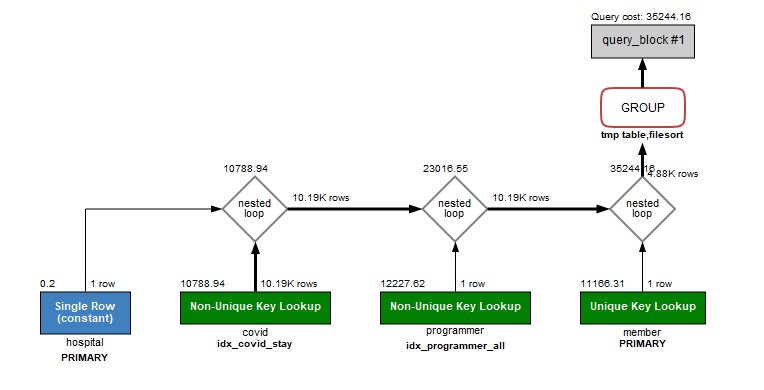
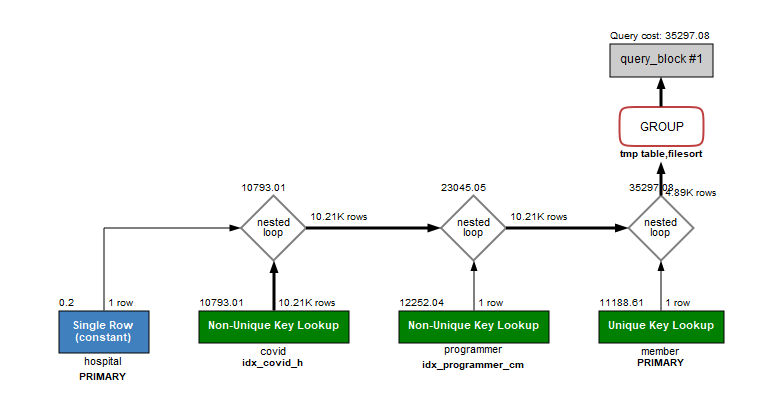
docs : [STEP2] 개선된 index를 적용한 최종 쿼리 적용

Changed region(s): [[0.0301, 0.0308, 0.9332, 0.9538], [0.4817, 0.7077, 0.7225, 0.9231]]

diff --git a/README.md b/README.md
@@ -88,7 +88,7 @@ ii) 해결 : pk 생성 및 pk 유니크로 변경, 인덱스 생성
 
 ALTER TABLE subway.programmer ADD CONSTRAINT programmer_pk PRIMARY KEY (id);
 ALTER TABLE subway.programmer ADD UNIQUE id_unique (id);
-CREATE INDEX idx_programmer_hoddy ON subway.programmer (hobby);
+CREATE INDEX idx_programmer_h ON subway.programmer (hobby);
 
 i) 개선 후 속도 0.031 sec
 
@@ -110,7 +110,7 @@ ALTER TABLE subway.covid ADD UNIQUE covid_id_unique (id);
 ALTER TABLE subway.hospital ADD CONSTRAINT hospital_pk PRIMARY KEY (id);
 ALTER TABLE subway.hospital ADD UNIQUE hospital_id_unique (id);
 
-CREATE INDEX idx_covid_all ON subway.covid(programmer_id, hospital_id);
+CREATE INDEX idx_covid_ph ON subway.covid(programmer_id, hospital_id);
 
 i) 개선 후 속도 : 0.016 sec
 
@@ -137,26 +137,11 @@ ii) 문제 : 큰 이슈 없음
 ### 문제 수정
 
 ```
-문제의도 다시 파악. programmer는 항상 hobby를 가지고 있어야 한다.
+문제의도 다시 파악. 
+1. programmer는 항상 hobby를 가지고 있어야 한다. 
+2. FROM 절 서브쿼리를 통한 모수 줄이기
+3. WHERE 절에 대한 hobby, student, years_coding 순서의 신규 인덱스 추가
 
-SELECT hospital.name
-FROM subway.programmer programmer
-JOIN subway.covid covid ON covid.programmer_id = programmer.id
-JOIN  subway.hospital hospital ON covid.hospital_id = hospital.id
-WHERE  hobby = 'Yes' AND ( student LIKE 'Yes%' OR  years_coding = '0-2 years')
-ORDER BY programmer.id;
-
-```
-### 개선 후 실행 계획
-
-![3이슈_개선.png](explain/3이슈_개선.png)
-
-![3이슈_개선_plain.png](explain/3이슈_개선_plain.png)
-
-### 다른 방식 적용 전후비교 
-
-```
-해설 쿼리처럼 FROM절 모수 줄였을 때 전후 비교.
 SELECT programmer.id, covid.name
 FROM (
     SELECT id
@@ -167,11 +152,14 @@ JOIN (
     JOIN (SELECT hospital.id, name FROM subway.hospital) AS hospital ON hospital.id = covid.hospital_id
 ) AS covid ON covid.programmer_id = programmer.id
 
+
+CREATE INDEX idx_programmer_hsy ON subway.programmer(hobby, student, years_coding);
+
+
 ```
-### FROM절 모수 줄였을 시 실행 계획2 
+### 개선 후 실행 계획
 
-![3이슈_개선2_plain.png](explain/3이슈_개선2_plain.png)
-
+![3이슈_개선.png](explain/3이슈_개선.png)
 
  - 4. 서울대병원에 다닌 20대 India 환자들을 병원에 머문 기간별로 집계하세요. (covid.Stay)
 
@@ -202,7 +190,9 @@ i) 속도 : 0.015 sec
 ### 문제 수정
 
 ```
-SQL 신규 작성 - FROM절 모수 줄이기
+1. idx_covid_all 과같은 재활용 불가능한 인덱스를 재활용하려는 시도 제거.( 네이밍 수정 )
+2. FROM 절 서브쿼리를 통한 모수 줄이기
+3. 개선을 위한 적절한 인덱스 추가 
 
 SELECT stay, COUNT(programmer.member_id)
 FROM ( SELECT id FROM subway.member WHERE age BETWEEN 20 AND 29) AS member
@@ -214,35 +204,37 @@ JOIN (
 ON member.id = covid.member_id
 GROUP BY stay;
 
-모든 조건절 index 추가 
+개선을 위한 인덱스 추가
 
 CREATE INDEX idx_member_age ON subway.member(age);
-CREATE INDEX idx_programmer_all ON subway.programmer(country,member_id);
-CREATE INDEX idx_covid_stay ON subway.covid(stay);
-CREATE INDEX idx_covid_hospital ON subway.covid(hospital_id);
+CREATE INDEX idx_programmer_cm ON subway.programmer(country,member_id);
+CREATE INDEX idx_covid_h ON subway.covid(hospital_id);
 
 ```
 ###  개선 후
 
 ![4이슈_개선.png](explain/4이슈_개선.png)
 
-![4이슈_개선_.plain.png](explain/4이슈_개선_.plain.png)
-
  - 5. 서울대병원에 다닌 30대 환자들을 운동 횟수별로 집계하세요. (user.Exercise)
 
 ```
-SELECT exercise, count(programmer.id)
-FROM subway.hospital hospital
-JOIN subway.covid covid ON covid.hospital_id = hospital.id
-JOIN subway.programmer programmer ON covid.programmer_id = programmer.id 
-JOIN subway.member member ON covid.member_id = member.id
-WHERE ( age BETWEEN 30 AND 39 ) AND hospital.id=9
+SELECT exercise, COUNT(programmer.member_id)
+FROM ( SELECT id FROM subway.member WHERE age BETWEEN 30 AND 39) AS member
+JOIN ( SELECT member_id FROM subway.programmer WHERE country = 'India') AS programmer
+ON member.id = programmer.member_id
+JOIN (
+    SELECT covid.id, covid.member_id, hospital_id, exercise FROM subway.covid
+    JOIN ( SELECT id FROM subway.hospital WHERE hospital.id = 9 ) as hospital ON covid.hospital_id = hospital.id) AS covid 
+ON member.id = covid.member_id
 GROUP BY exercise;
 
 i) 속도 : 0.031 sec
 ii) 문제 : 이슈 없음 
 
 ```
+
+![5이슈_개선.png](explain/5이슈_개선.png)
+
 
 2. 페이징 쿼리를 적용한 API endpoint를 알려주세요
  - https://performance.honbabzone.com/favorites
